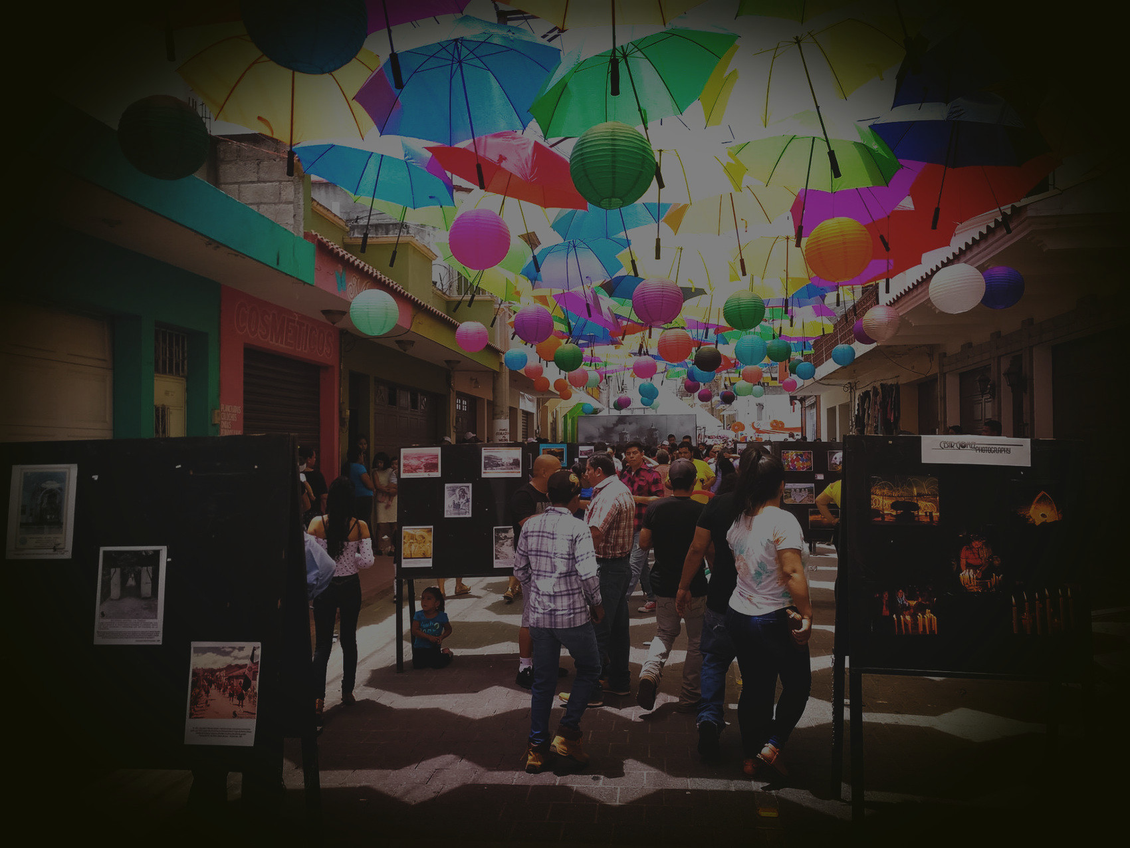
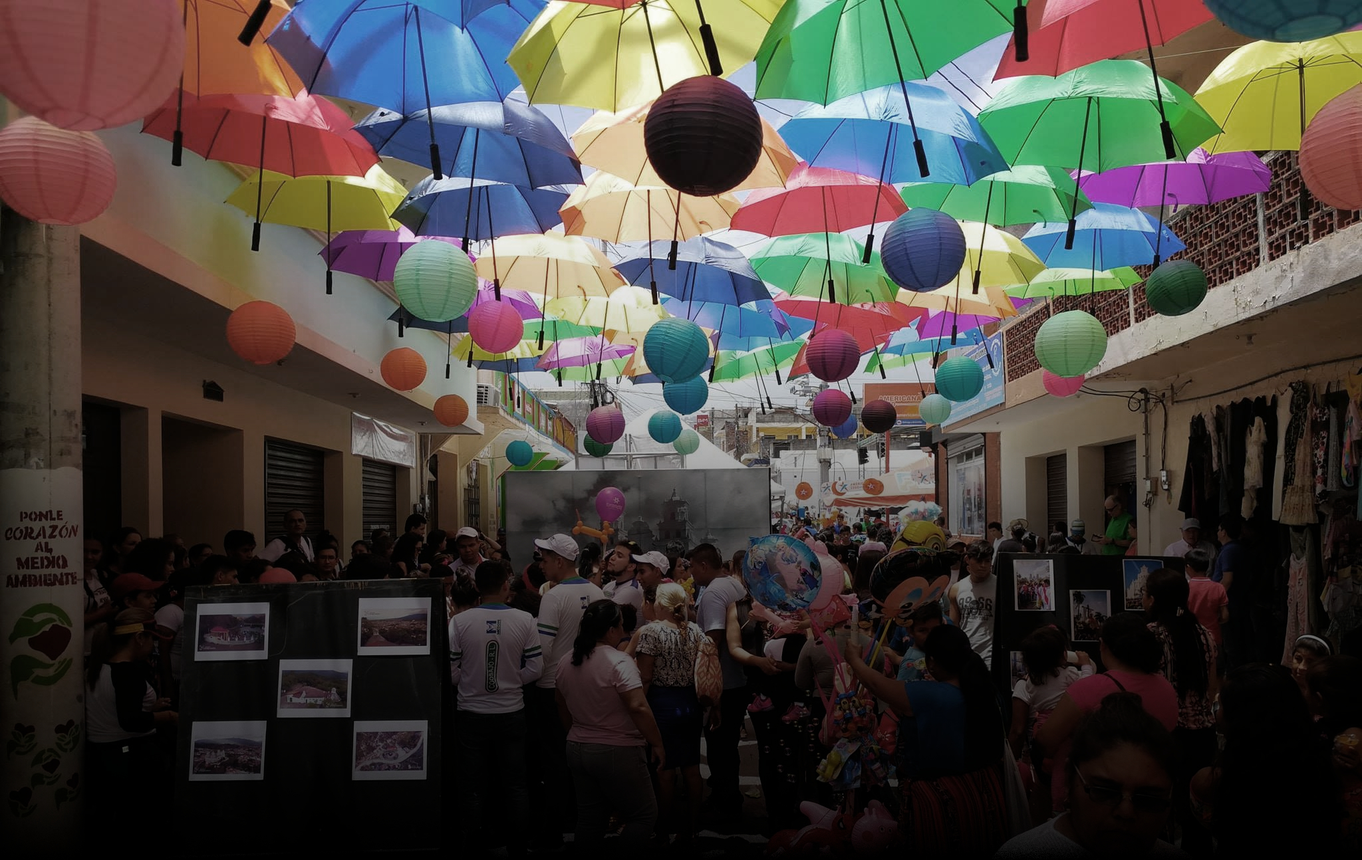
Modifica color de las imagenes

diff --git a/css/style.css b/css/style.css
@@ -17,18 +17,29 @@
   margin-left: -65px;
   margin-top: -95px;
   white-space:nowrap;
-  font-family:"MADE Evolve Sans EVO";
-  font-style: Light;
+  font-family:"MADE Evolve Sans";
+  font-weight: bold;
   font-size: 160px;
   color:#fff;
   text-shadow: 2px 1px 6px  #000;
 }
-h2 {
+
+.enfasis{
+    font-size: 260px;
+    margin-left: -65px;
+    margin-top: -95px;
+    white-space:nowrap;
+    font-family:"MADE Evolve Sans";
+    font-weight: bold;
+    color:#fff;
+    text-shadow: 2px 1px 6px  #000;
+}
+
+#h2 {
   /* margin-left: -px; */
   margin-top: -95px;
   white-space:nowrap;
   font-family:"MADE Evolve Sans";
-  /* font-style: bold; */
   font-size: 40px;
   color:#fff;
   text-shadow: 2px 1px 6px  #000;
@@ -37,16 +48,17 @@ h2 {
   /* margin-left: -65px; */
   margin-top: -95px;
   white-space:nowrap;
-  font-family:MADE Evolve Sans EVO;
+  font-family:MADE Evolve Sans;
   font-size: 160px;
+  font-weight: bold;
   color:#fff;
   text-shadow: 2px 1px 6px  #000;
 }
 
 #nvar{
 height: 90px;
-background: linear-gradient(to top, rgba(0, 0,0, 1) 0%, rgba(0,0, 0, 0.5) 100%);
-background: linear-gradient(to bottom, rgba(0, 0, 0, 1), rgba(0, 0, 0, 0.4) 100%);
+/* background: linear-gradient(to top, rgba(0, 0,0, 1) 0%, rgba(0,0, 0, 0.5) 100%); */
+/* background: linear-gradient(to bottom, rgba(0, 0, 0, 1), rgba(0, 0, 0, 0.4) 100%); */
 /* background-color: #2f4353;
 background-image: linear-gradient(315deg, #2f4353 0%, #d2ccc4 74%); */
 }
@@ -69,6 +81,8 @@ background-image: linear-gradient(315deg, #2f4353 0%, #d2ccc4 74%); */
 #body-index{
 background-image: url("../images/index.jpg");
 background-repeat: none;
+background-position: center;
+background-size: 100vw;
 }
 #body-page2{
     background-image: url("../images/serenata/bgrnd.jpg");
@@ -94,10 +108,14 @@ background-repeat: none;
 } */
 #imgs{
     margin:auto;
-    -webkit-filter: drop-shadow(8px 8px 10px gray); /* Safari 6.0 - 9.0 */
-  filter: drop-shadow(8px 8px 10px gray);
-    width: 600px;
+    filter: drop-shadow(0px 0px 5px black);
+    width: 500px;
 }
+
+.container{
+    padding: 25px
+}
+
 #spa{
     margin: auto;
     padding: 80px;

diff --git a/page2.html b/page2.html
@@ -32,12 +32,19 @@
               </div>
             </div>
             <div class="column">
+                <div class="container">
                 <ul id="images-list">
-                    <li id="imgs"> <img src="images/serenata/uno.jpg"></li><br>
-                    <li id="imgs"> <img src="images/serenata/dos.jpg"></li><br>
-                    <li id="imgs"> <img src="images/serenata/tres.gif"></li>
-                    <!-- <li id="imgs"> <img src="images/a4.jpg"></li><br> -->
+                    <span class="container">
+                        <li id="imgs"> <img src="images/serenata/uno.jpg"></li><br>
+                    </span>
+                    <span class="container">
+                        <li id="imgs"> <img src="images/serenata/dos.jpg"></li><br>
+                    </span>
+                    <span class="container">
+                        <li id="imgs"> <img src="images/serenata/tres.gif"></li>
+                    </span>
                 </ul>
+            </div>
             </div>
             </div>
         </section>

diff --git a/index.html b/index.html
@@ -25,7 +25,7 @@
     <h1 id="h1">
         Esquipulteco.
     </h1>
-      <h1 id="h1">
+      <h1 class="enfasis">
           2018
       </h1>
     </div>
@@ -35,7 +35,7 @@
   <div id="nvar" class="hero-foot">
     <nav id="b" class="tabs is-fullwidth">
       <div class="container">
-        <ul id="h2">
+        <ul id="h2"background-repeat: none;>
           <li class="is-active"><a id="b" href="page2.html">Serenata <br>cooperativista <br>
               <i id="i" class="down"></i>
           </a></li>
